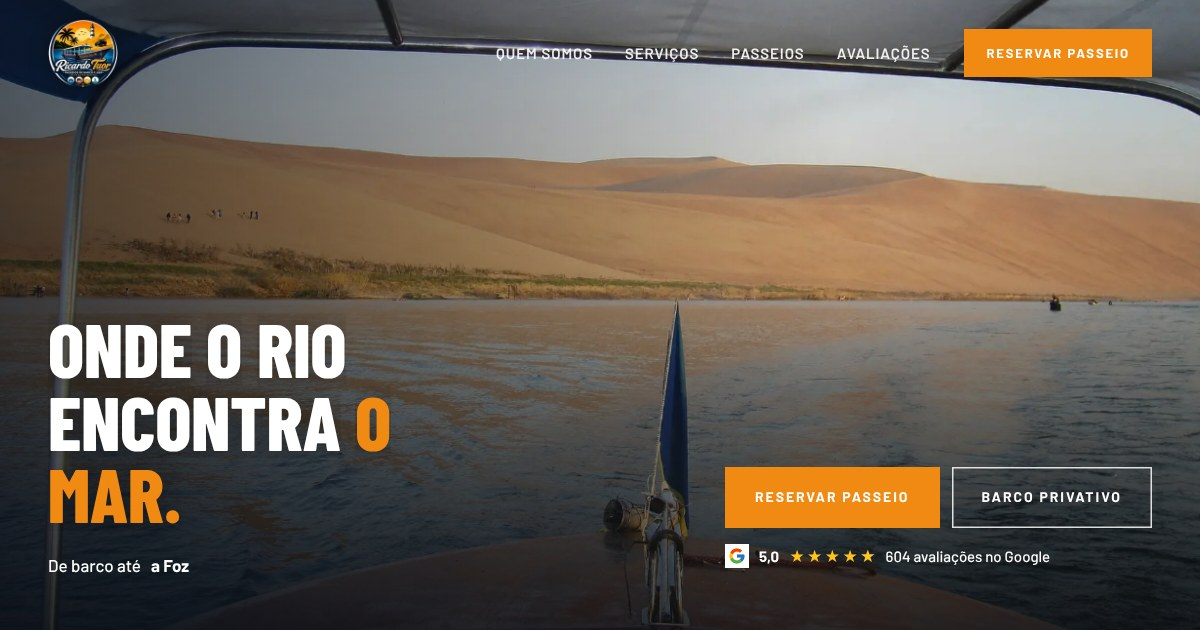
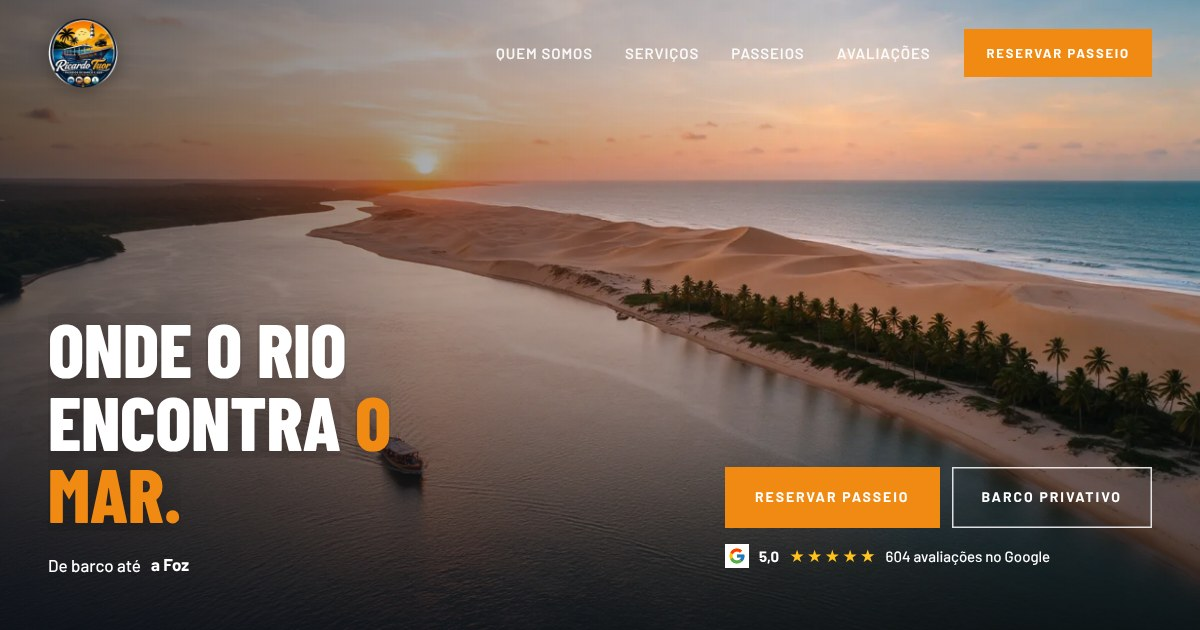
Prévia v4: capas aéreas sem pessoas, avaliações no fim, fita do Instagram contínua
Claude-Session: https://claude.ai/code/session_01C22FjvBUQqrK6Rtnr1V3yc

diff --git a/index.html b/index.html
@@ -401,8 +401,7 @@ footer .flogo{height:84px;width:auto;margin-bottom:10px}
 .fita{position:relative;z-index:6;background:var(--papel);padding:clamp(80px,8vw,120px) 0;overflow:hidden}
 .fita .tit{margin-bottom:clamp(34px,4vw,54px)}
 .fita .tit a{color:var(--laranja);font-weight:700}
-.trilha{display:flex;gap:14px;width:max-content;animation:fita 60s linear infinite}
-.fita:hover .trilha{animation-play-state:paused}
+.trilha{display:flex;gap:14px;width:max-content;animation:fita 38s linear infinite}
 .trilha img{height:clamp(240px,24vw,360px);width:auto;aspect-ratio:4/5;object-fit:cover;flex:none}
 @keyframes fita{to{transform:translate3d(-50%,0,0)}}
 @media(prefers-reduced-motion:reduce){.trilha{animation:none}}
@@ -460,7 +459,7 @@ footer .flogo{height:84px;width:auto;margin-bottom:10px}
 </header>
 
 <section class="hero" id="topo">
-  <picture><source media="(max-width:900px)" srcset="capa-v2-m.webp"><img decoding="async" class="bg kb" id="heroImg" fetchpriority="high" src="capa-v2.webp" alt="Vista do barco pras dunas douradas do Rio São Francisco"></picture>
+  <picture><source media="(max-width:900px)" srcset="capa-v2-m.webp"><img decoding="async" class="bg kb" id="heroImg" fetchpriority="high" src="capa-v2.webp" alt="Vista aérea da Foz do Rio São Francisco com as dunas"></picture>
   <div class="wrap">
     <div class="esq"><h1 class="split" id="heroTit">Onde o rio encontra <em>o mar.</em></h1>
     <div class="bora h-fade">De barco até <span class="slot" id="slot"><b>a Foz</b><b>as dunas</b><b>o pôr do sol</b><b>a Foz</b></span></div></div>
@@ -522,16 +521,6 @@ footer .flogo{height:84px;width:auto;margin-bottom:10px}
   </div>
 </section>
 
-<section class="aval" id="avaliacoes">
-  <div class="wrap">
-    <div class="aval-h">
-      <div><span class="k rv">Avaliações</span><h2 class="split">Quem foi, recomenda.</h2></div>
-      <div class="nota rv"><svg><use href="#g"/></svg><b>5,0</b><div><span class="est brilho"><i>★</i><i>★</i><i>★</i><i>★</i><i>★</i></span><small>604 avaliações no Google</small></div></div>
-    </div>
-    <div class="mural"><div class="dep rv"><div class="dep-top"><span class="est"><i>★</i><i>★</i><i>★</i><i>★</i><i>★</i></span><svg><use href="#g"/></svg></div><p>Meu marido e eu estávamos em dúvida se iríamos fazer o passeio na Foz do Rio São Francisco e decidimos de última hora. Contatei o Ricardo, que me sugeriu um passeio de barco privativo à tarde, e foi a melhor escolha. Ele foi muito solícito, deu boas dicas e uma ótima conversa. O pôr do sol no retorno foi espetacular ❤</p><div class="quem-av"><span class="av" style="background:#f08a12">A</span><div><b>Agatha</b><small>Google</small></div></div></div><figure class="mfoto rv"><img loading="lazy" src="rt-casal-dunas.webp" alt="Mãos dadas nas Dunas Douradas"><figcaption>Dunas Douradas</figcaption></figure><div class="dep rv"><div class="dep-top"><span class="est"><i>★</i><i>★</i><i>★</i><i>★</i><i>★</i></span><svg><use href="#g"/></svg></div><p>Ricardo nos proporcionou uma experiência maravilhosa, foi extremamente atencioso no passeio, bastante flexível com a nossa necessidade e disponibilidade de horários. O passeio é inesquecível, uma experiência única na foz do rio São Francisco.</p><div class="quem-av"><span class="av" style="background:#0f4a86">B</span><div><b>Bruna Lino</b><small>Google</small></div></div></div><figure class="mfoto rv"><img loading="lazy" src="rt-pedido.webp" alt="Pedido de casamento nas dunas"><figcaption>Pedido de casamento na Foz</figcaption></figure><div class="dep rv"><div class="dep-top"><span class="est"><i>★</i><i>★</i><i>★</i><i>★</i><i>★</i></span><svg><use href="#g"/></svg></div><p>Esse é o melhor passeio que você poderia fazer no Rio São Francisco, e em Alagoas pra mim é o top 1, meu lugar favorito a se visitar. E fazer o passeio com alguém que conhece o rio é ainda melhor, o Ricardo é sem dúvidas o melhor que eu poderia ter escolhido.</p><div class="quem-av"><span class="av" style="background:#16171b">R</span><div><b>Rafael Santana</b><small>Google</small></div></div></div><figure class="mfoto rv"><img loading="lazy" src="rt-banho.webp" alt="Banho de rio no fim de tarde"><figcaption>Banho de rio</figcaption></figure></div>
-  </div>
-</section>
-
 <section class="dia" id="dia">
   <div class="wrap">
     <div class="tit"><span class="k rv">Como funciona</span><h2 class="split">Do píer até <em>a Foz</em></h2><p class="rv">Tudo combinado pelo WhatsApp antes de você chegar em Piaçabuçu.</p></div>
@@ -579,6 +568,16 @@ footer .flogo{height:84px;width:auto;margin-bottom:10px}
   <div class="wrap"><div class="tit"><span class="k rv">No Instagram do Ricardo</span><h2 class="split">Gente feliz no <em>Velho Chico.</em></h2><p class="rv">Mais passeios no <a href="https://www.instagram.com/fozdoriosaofrancisco_/" target="_blank" rel="noopener">@fozdoriosaofrancisco_</a>.</p></div></div>
   <div class="trilha" aria-hidden="true"><img loading="lazy" decoding="async" src="rt-f1.webp" alt="Clientes do Ricardo Tuor na Foz do São Francisco"><img loading="lazy" decoding="async" src="rt-f2.webp" alt="Clientes do Ricardo Tuor na Foz do São Francisco"><img loading="lazy" decoding="async" src="rt-f3.webp" alt="Clientes do Ricardo Tuor na Foz do São Francisco"><img loading="lazy" decoding="async" src="rt-f4.webp" alt="Clientes do Ricardo Tuor na Foz do São Francisco"><img loading="lazy" decoding="async" src="rt-f5.webp" alt="Clientes do Ricardo Tuor na Foz do São Francisco"><img loading="lazy" decoding="async" src="rt-f6.webp" alt="Clientes do Ricardo Tuor na Foz do São Francisco"><img loading="lazy" decoding="async" src="rt-f7.webp" alt="Clientes do Ricardo Tuor na Foz do São Francisco"><img loading="lazy" decoding="async" src="rt-f8.webp" alt="Clientes do Ricardo Tuor na Foz do São Francisco"><img loading="lazy" decoding="async" src="rt-f9.webp" alt="Clientes do Ricardo Tuor na Foz do São Francisco"><img loading="lazy" decoding="async" src="rt-f10.webp" alt="Clientes do Ricardo Tuor na Foz do São Francisco"><img loading="lazy" decoding="async" src="rt-f11.webp" alt="Clientes do Ricardo Tuor na Foz do São Francisco"><img loading="lazy" decoding="async" src="rt-f12.webp" alt="Clientes do Ricardo Tuor na Foz do São Francisco"><img loading="lazy" decoding="async" src="rt-f1.webp" alt="Clientes do Ricardo Tuor na Foz do São Francisco"><img loading="lazy" decoding="async" src="rt-f2.webp" alt="Clientes do Ricardo Tuor na Foz do São Francisco"><img loading="lazy" decoding="async" src="rt-f3.webp" alt="Clientes do Ricardo Tuor na Foz do São Francisco"><img loading="lazy" decoding="async" src="rt-f4.webp" alt="Clientes do Ricardo Tuor na Foz do São Francisco"><img loading="lazy" decoding="async" src="rt-f5.webp" alt="Clientes do Ricardo Tuor na Foz do São Francisco"><img loading="lazy" decoding="async" src="rt-f6.webp" alt="Clientes do Ricardo Tuor na Foz do São Francisco"><img loading="lazy" decoding="async" src="rt-f7.webp" alt="Clientes do Ricardo Tuor na Foz do São Francisco"><img loading="lazy" decoding="async" src="rt-f8.webp" alt="Clientes do Ricardo Tuor na Foz do São Francisco"><img loading="lazy" decoding="async" src="rt-f9.webp" alt="Clientes do Ricardo Tuor na Foz do São Francisco"><img loading="lazy" decoding="async" src="rt-f10.webp" alt="Clientes do Ricardo Tuor na Foz do São Francisco"><img loading="lazy" decoding="async" src="rt-f11.webp" alt="Clientes do Ricardo Tuor na Foz do São Francisco"><img loading="lazy" decoding="async" src="rt-f12.webp" alt="Clientes do Ricardo Tuor na Foz do São Francisco"></div>
   <div class="fita-b"><a class="btn" href="https://www.instagram.com/fozdoriosaofrancisco_/" target="_blank" rel="noopener"><svg viewBox="0 0 24 24" fill="none" stroke="currentColor" stroke-width="2"><rect x="3" y="3" width="18" height="18" rx="5"/><circle cx="12" cy="12" r="4"/><circle cx="17.5" cy="6.5" r="1" fill="currentColor"/></svg>Seguir no Instagram</a></div>
+</section>
+
+<section class="aval" id="avaliacoes">
+  <div class="wrap">
+    <div class="aval-h">
+      <div><span class="k rv">Avaliações</span><h2 class="split">Quem foi, recomenda.</h2></div>
+      <div class="nota rv"><svg><use href="#g"/></svg><b>5,0</b><div><span class="est brilho"><i>★</i><i>★</i><i>★</i><i>★</i><i>★</i></span><small>604 avaliações no Google</small></div></div>
+    </div>
+    <div class="mural"><div class="dep rv"><div class="dep-top"><span class="est"><i>★</i><i>★</i><i>★</i><i>★</i><i>★</i></span><svg><use href="#g"/></svg></div><p>Meu marido e eu estávamos em dúvida se iríamos fazer o passeio na Foz do Rio São Francisco e decidimos de última hora. Contatei o Ricardo, que me sugeriu um passeio de barco privativo à tarde, e foi a melhor escolha. Ele foi muito solícito, deu boas dicas e uma ótima conversa. O pôr do sol no retorno foi espetacular ❤</p><div class="quem-av"><span class="av" style="background:#f08a12">A</span><div><b>Agatha</b><small>Google</small></div></div></div><figure class="mfoto rv"><img loading="lazy" src="rt-casal-dunas.webp" alt="Mãos dadas nas Dunas Douradas"><figcaption>Dunas Douradas</figcaption></figure><div class="dep rv"><div class="dep-top"><span class="est"><i>★</i><i>★</i><i>★</i><i>★</i><i>★</i></span><svg><use href="#g"/></svg></div><p>Ricardo nos proporcionou uma experiência maravilhosa, foi extremamente atencioso no passeio, bastante flexível com a nossa necessidade e disponibilidade de horários. O passeio é inesquecível, uma experiência única na foz do rio São Francisco.</p><div class="quem-av"><span class="av" style="background:#0f4a86">B</span><div><b>Bruna Lino</b><small>Google</small></div></div></div><figure class="mfoto rv"><img loading="lazy" src="rt-pedido.webp" alt="Pedido de casamento nas dunas"><figcaption>Pedido de casamento na Foz</figcaption></figure><div class="dep rv"><div class="dep-top"><span class="est"><i>★</i><i>★</i><i>★</i><i>★</i><i>★</i></span><svg><use href="#g"/></svg></div><p>Esse é o melhor passeio que você poderia fazer no Rio São Francisco, e em Alagoas pra mim é o top 1, meu lugar favorito a se visitar. E fazer o passeio com alguém que conhece o rio é ainda melhor, o Ricardo é sem dúvidas o melhor que eu poderia ter escolhido.</p><div class="quem-av"><span class="av" style="background:#16171b">R</span><div><b>Rafael Santana</b><small>Google</small></div></div></div><figure class="mfoto rv"><img loading="lazy" src="rt-banho.webp" alt="Banho de rio no fim de tarde"><figcaption>Banho de rio</figcaption></figure></div>
+  </div>
 </section>
 
 <section class="loc" id="local">
